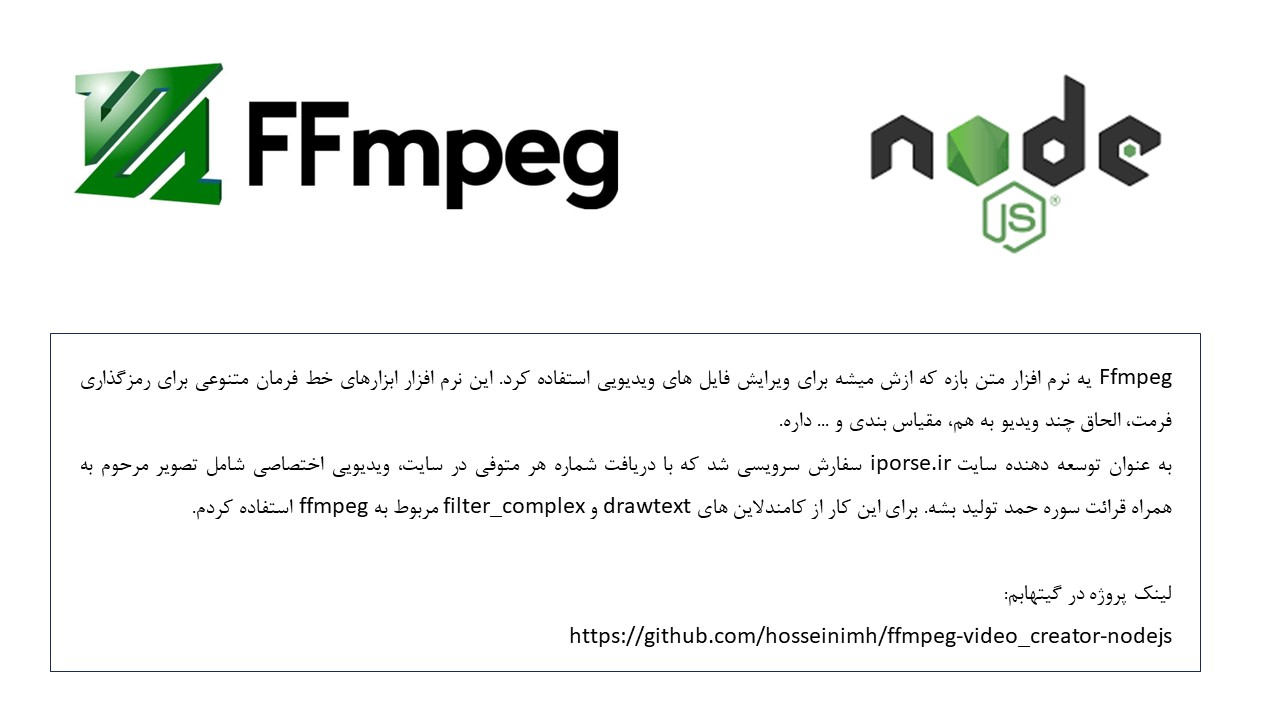
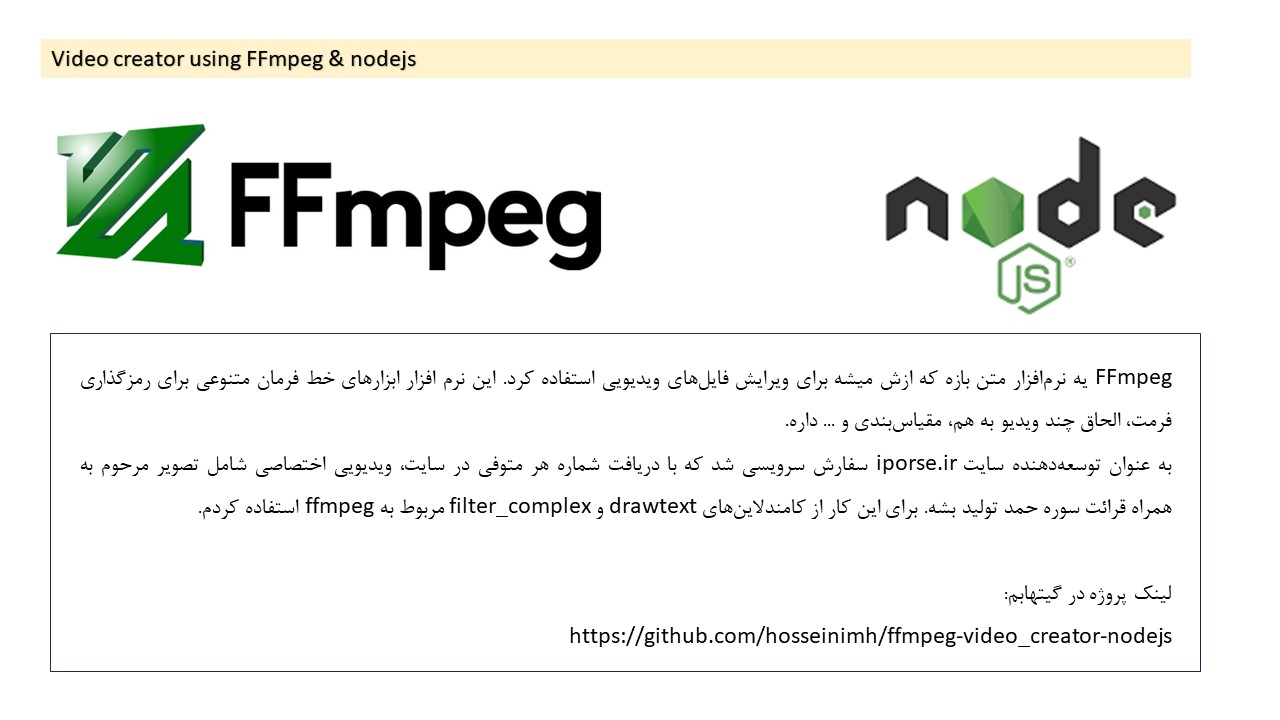
README.md

diff --git a/services/VideoService.js b/services/VideoService.js
@@ -1,8 +1,8 @@
 var fs = require("fs");
 var https = require("https");
 var shell = require("shelljs");
-var sharp = require("sharp");
 var path = require("path");
+var sharp = require("sharp");
 
 class VideoService {
   async create(yadboodId, yadboodTitle, imagePath) {
@@ -55,13 +55,13 @@ class VideoService {
   }
 
   async getImage() {
-    return await this.pDownload(this.imagePath, this.videoImagePath);
+    return await this.download(this.imagePath, this.videoImagePath);
   }
 
   async getQrCode() {
     const qrCodePath = `https://chart.googleapis.com/chart?chs=200x200&cht=qr&choe=UTF-8&chl=Https://iPorse.ir/qr/
         ${this.yadboodId}`;
-    return await this.pDownload(qrCodePath, this.videoQrCodePath);
+    return await this.download(qrCodePath, this.videoQrCodePath);
   }
 
   cropCircle() {
@@ -106,10 +106,10 @@ class VideoService {
     shell.exec(command);
   }
 
-  pDownload(url, dest) {
-    var file = fs.createWriteStream(dest);
+  download(url, dest) {
+    const file = fs.createWriteStream(dest);
     return new Promise((resolve, reject) => {
-      var responseSent = false;
+      let responseSent = false;
       https
         .get(url, (response) => {
           response.pipe(file);

diff --git a/index.js b/index.js
@@ -31,12 +31,12 @@ app.post("/", async (req, res) => {
   try {
     const { yadbood_id, yadbood_title, image_path } = req.body;
     if (!yadbood_id || !yadbood_title || !image_path) {
-      return response(res, "2", 400);
+      return response(res, "", 400);
     }
     const result = videoService.create(yadbood_id, yadbood_title, image_path);
     return response(res, { _result: result });
   } catch {}
-  return response(res, "1", 400);
+  return response(res, "", 400);
 });
 
 function response(res, body = "", status = 200) {

diff --git a/README.md b/README.md
@@ -1,3 +1,11 @@
 # Video creator using FFmpeg & nodejs
 
 ![alt text](https://github.com/hosseinimh/ffmpeg-video_creator-nodejs/blob/main/presentation.jpg?raw=true)
+
+FFmpeg یه نرمافزار متن بازه که ازش میشه برای ویرایش فایلهای ویدیویی استفاده کرد. این نرم افزار ابزارهای خط فرمان متنوعی برای رمزگذاری فرمت، الحاق چند ویدیو به هم، مقیاسبندی و ... داره.
+
+به عنوان توسعهدهنده سایت iporse.ir سفارش سرویسی شد که با دریافت شماره هر متوفی در سایت، ویدیویی اختصاصی شامل تصویر مرحوم به همراه قرائت سوره حمد تولید بشه. برای این کار از کامندلاینهای drawtext و filter_complex مربوط به ffmpeg استفاده کردم.
+
+لینک پروژه در گیتهابم:
+
+https://github.com/hosseinimh/ffmpeg-video_creator-nodejs
